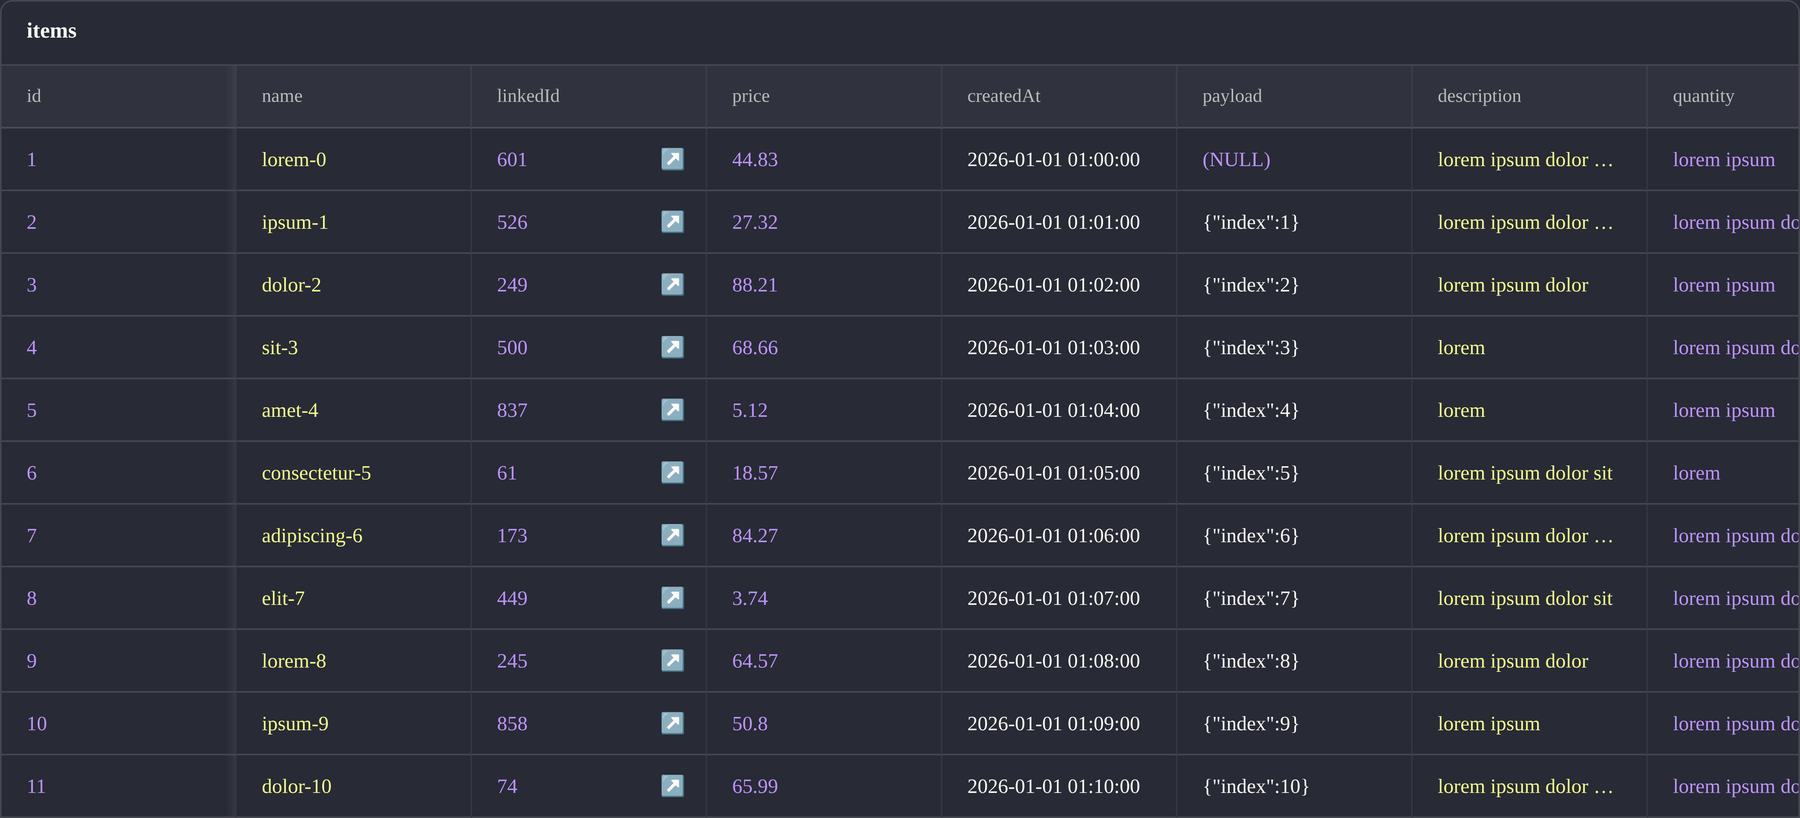
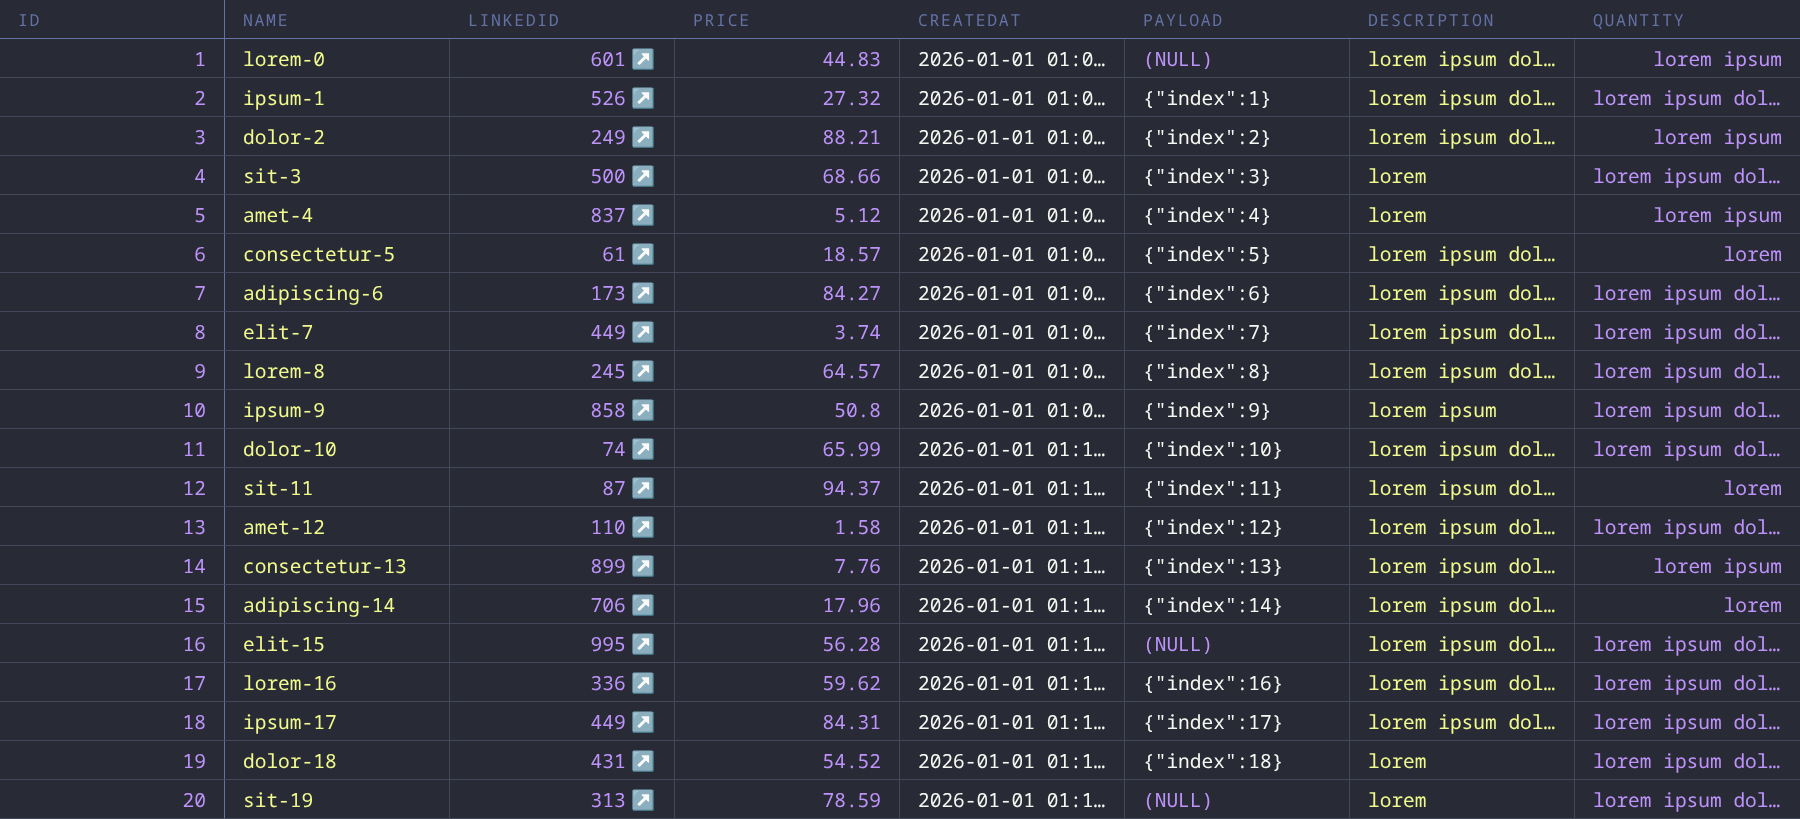
README screenshots regenerated, scripted
docs/screenshots/shots.sh captures the four shots from Storybook at the
device scale factor of the README's 2x width, crops the padding and reduces
the palette; the editor shot drives Monaco through the devtools protocol so
the suggest widget is open.

diff --git a/docs/screenshots/SHOTLIST.md b/docs/screenshots/SHOTLIST.md
@@ -1,24 +1,27 @@
 # README screenshots
 
-All four were captured from Storybook (`yarn storybook`) in headless Chromium,
-so they can be regenerated when the UI changes.
-
-| File             | Story                                   | Theme                              | Note                                                                 |
-| ---------------- | --------------------------------------- | ---------------------------------- | -------------------------------------------------------------------- |
-| `hero.png`       | `TableGrid / Default`                   | Dracula                            | 1180 px wide, cropped to the last whole row.                         |
-| `sql-editor.png` | `MonacoEditor / RawSqlEditor / Primary` | Dracula                            | Query retyped, then `Ctrl+Space` on `e.` to open the suggest widget. |
-| `chart.png`      | `Chart / ChartPanel / Default`          | Dracula                            | 980 px wide.                                                         |
-| `themes.png`     | `TableGrid / Default`                   | Solarized Light + Tokyo Night Dark | Two 560 px captures, montaged side by side.                          |
-
-Each file is then resized to exactly twice the width the README renders it at,
-and reduced to a 256-color palette without dithering — flat UI screenshots lose
-nothing to it, and it divides the total weight by four:
+All four are captured from Storybook (`yarn storybook`) in headless Chromium,
+so they can be regenerated when the UI changes:
 
 ```sh
-magick hero.png -filter Lanczos -resize 1800x +dither -colors 256 \
-  -strip -define png:compression-level=9 PNG8:hero.png
+yarn storybook          # in one terminal
+docs/screenshots/shots.sh   # in another, once Storybook answers on :6006
 ```
 
+| File             | Story                                   | Theme                              | Note                                                                                                           |
+| ---------------- | --------------------------------------- | ---------------------------------- | -------------------------------------------------------------------------------------------------------------- |
+| `hero.png`       | `TableGrid / Default`                   | Dracula                            | 1200 css px at 1.5×, cropped to the header and 20 whole rows.                                                  |
+| `sql-editor.png` | `MonacoEditor / RawSqlEditor / Primary` | Dracula                            | Retyped up to `WHERE e.` through the devtools protocol, so the suggest widget is open (`sql-editor-shot.mjs`). |
+| `chart.png`      | `Chart / ChartPanel / Default`          | Dracula                            | 980 css px at 1400/980.                                                                                        |
+| `themes.png`     | `TableGrid / Default`                   | Solarized Light + Tokyo Night Dark | Two 560 css px captures at 1.25×, montaged side by side.                                                       |
+
+Each story is rendered at the device scale factor that gives exactly twice the
+width the README renders it at, so nothing is upscaled. The 16 px Storybook
+padding is cropped away, and the PNG is reduced to a 256-color palette without
+dithering — flat UI screenshots lose nothing to it, and it divides the total
+weight by four. Needs `chromium-browser` (or `CHROMIUM=…`), `magick`, `node`
+and Python with Pillow.
+
 `hero.png` is the grid component alone, without the surrounding window. A
-capture of the real app — nav bar, table list, filter bar — would be a better
+capture of the real app — title bar, table list, filters — would be a better
 lead image; it is the one shot Storybook cannot produce.
